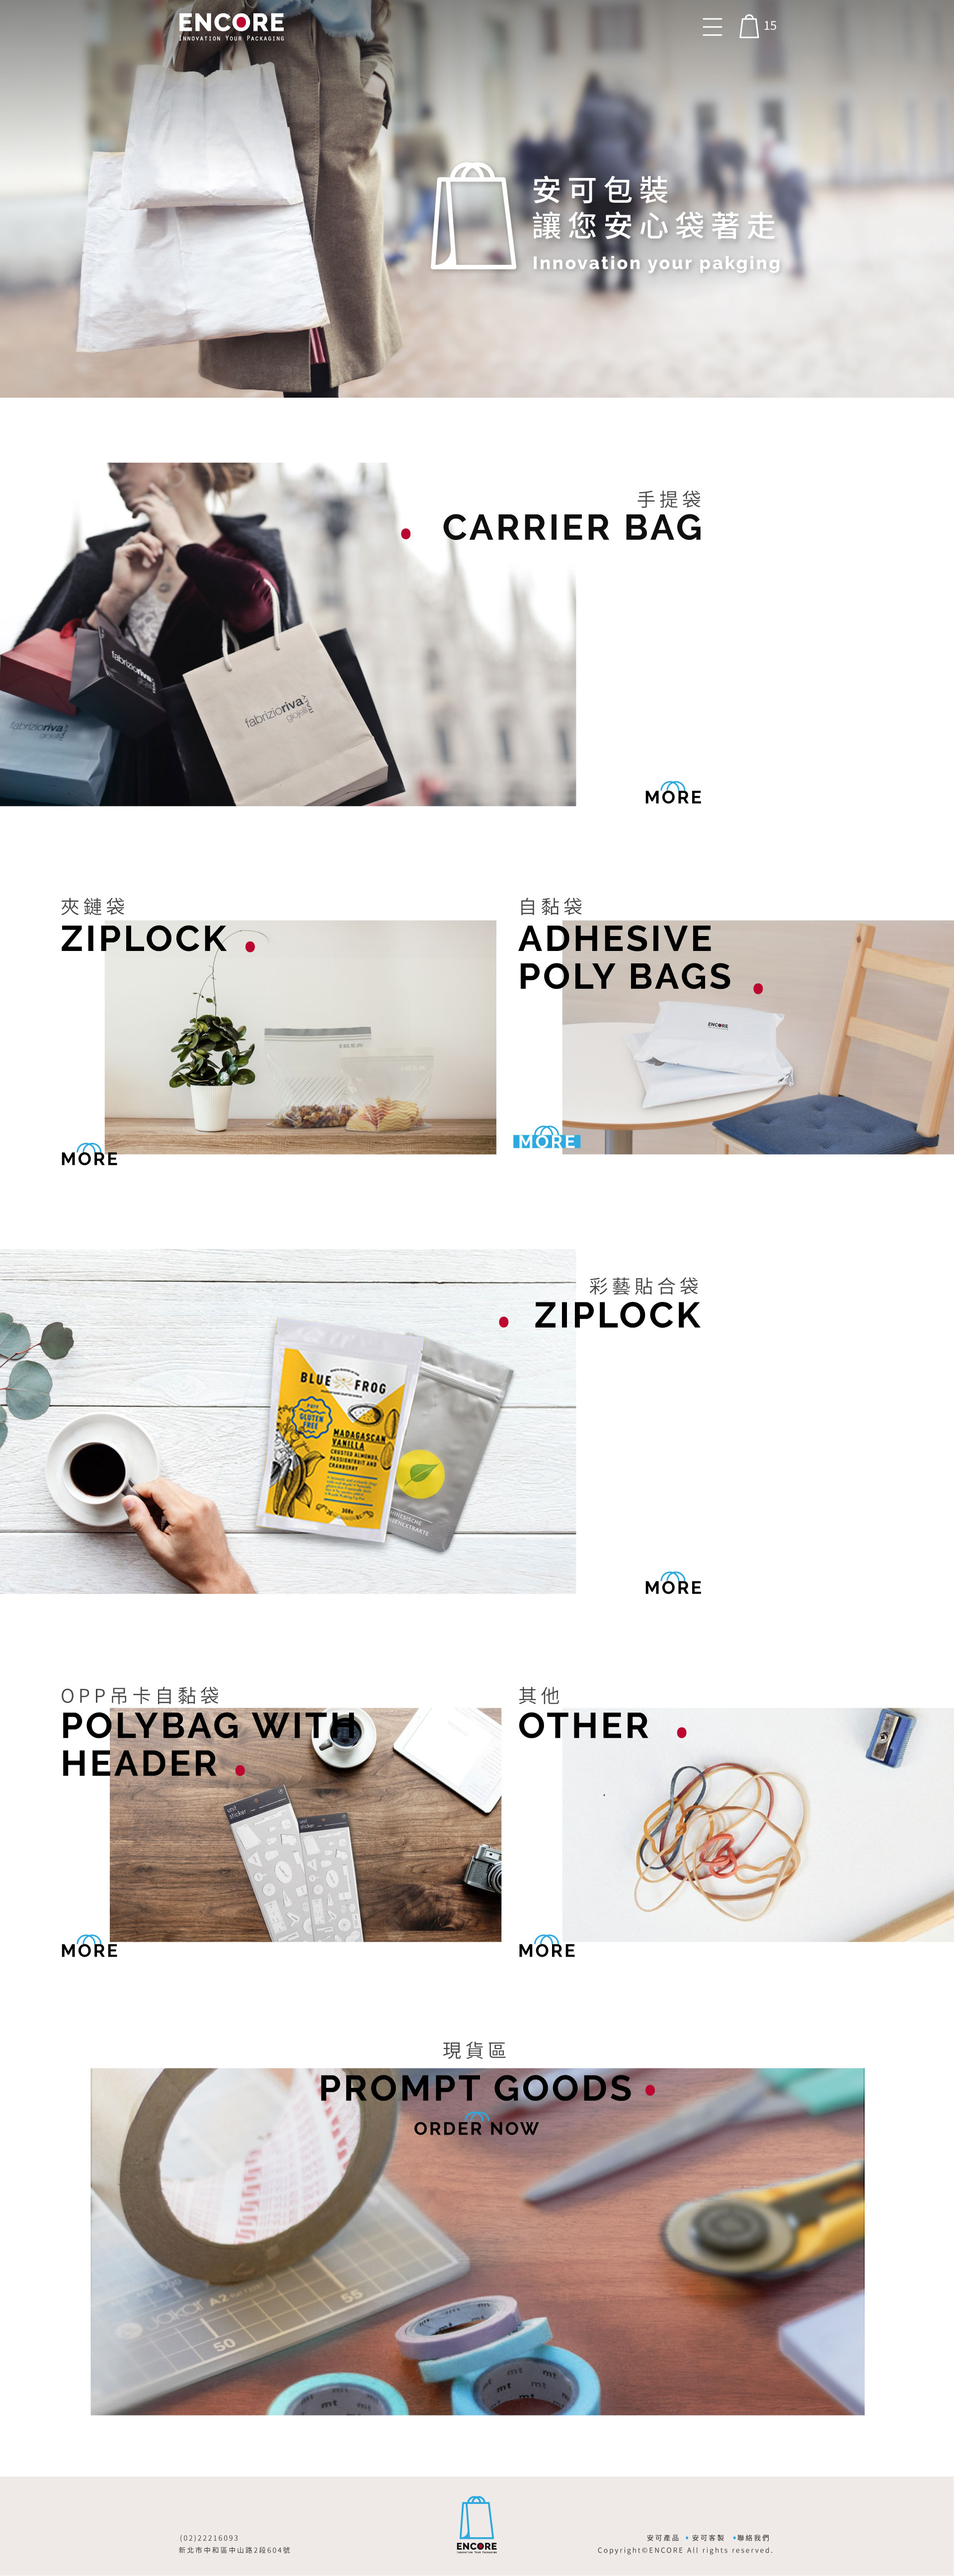
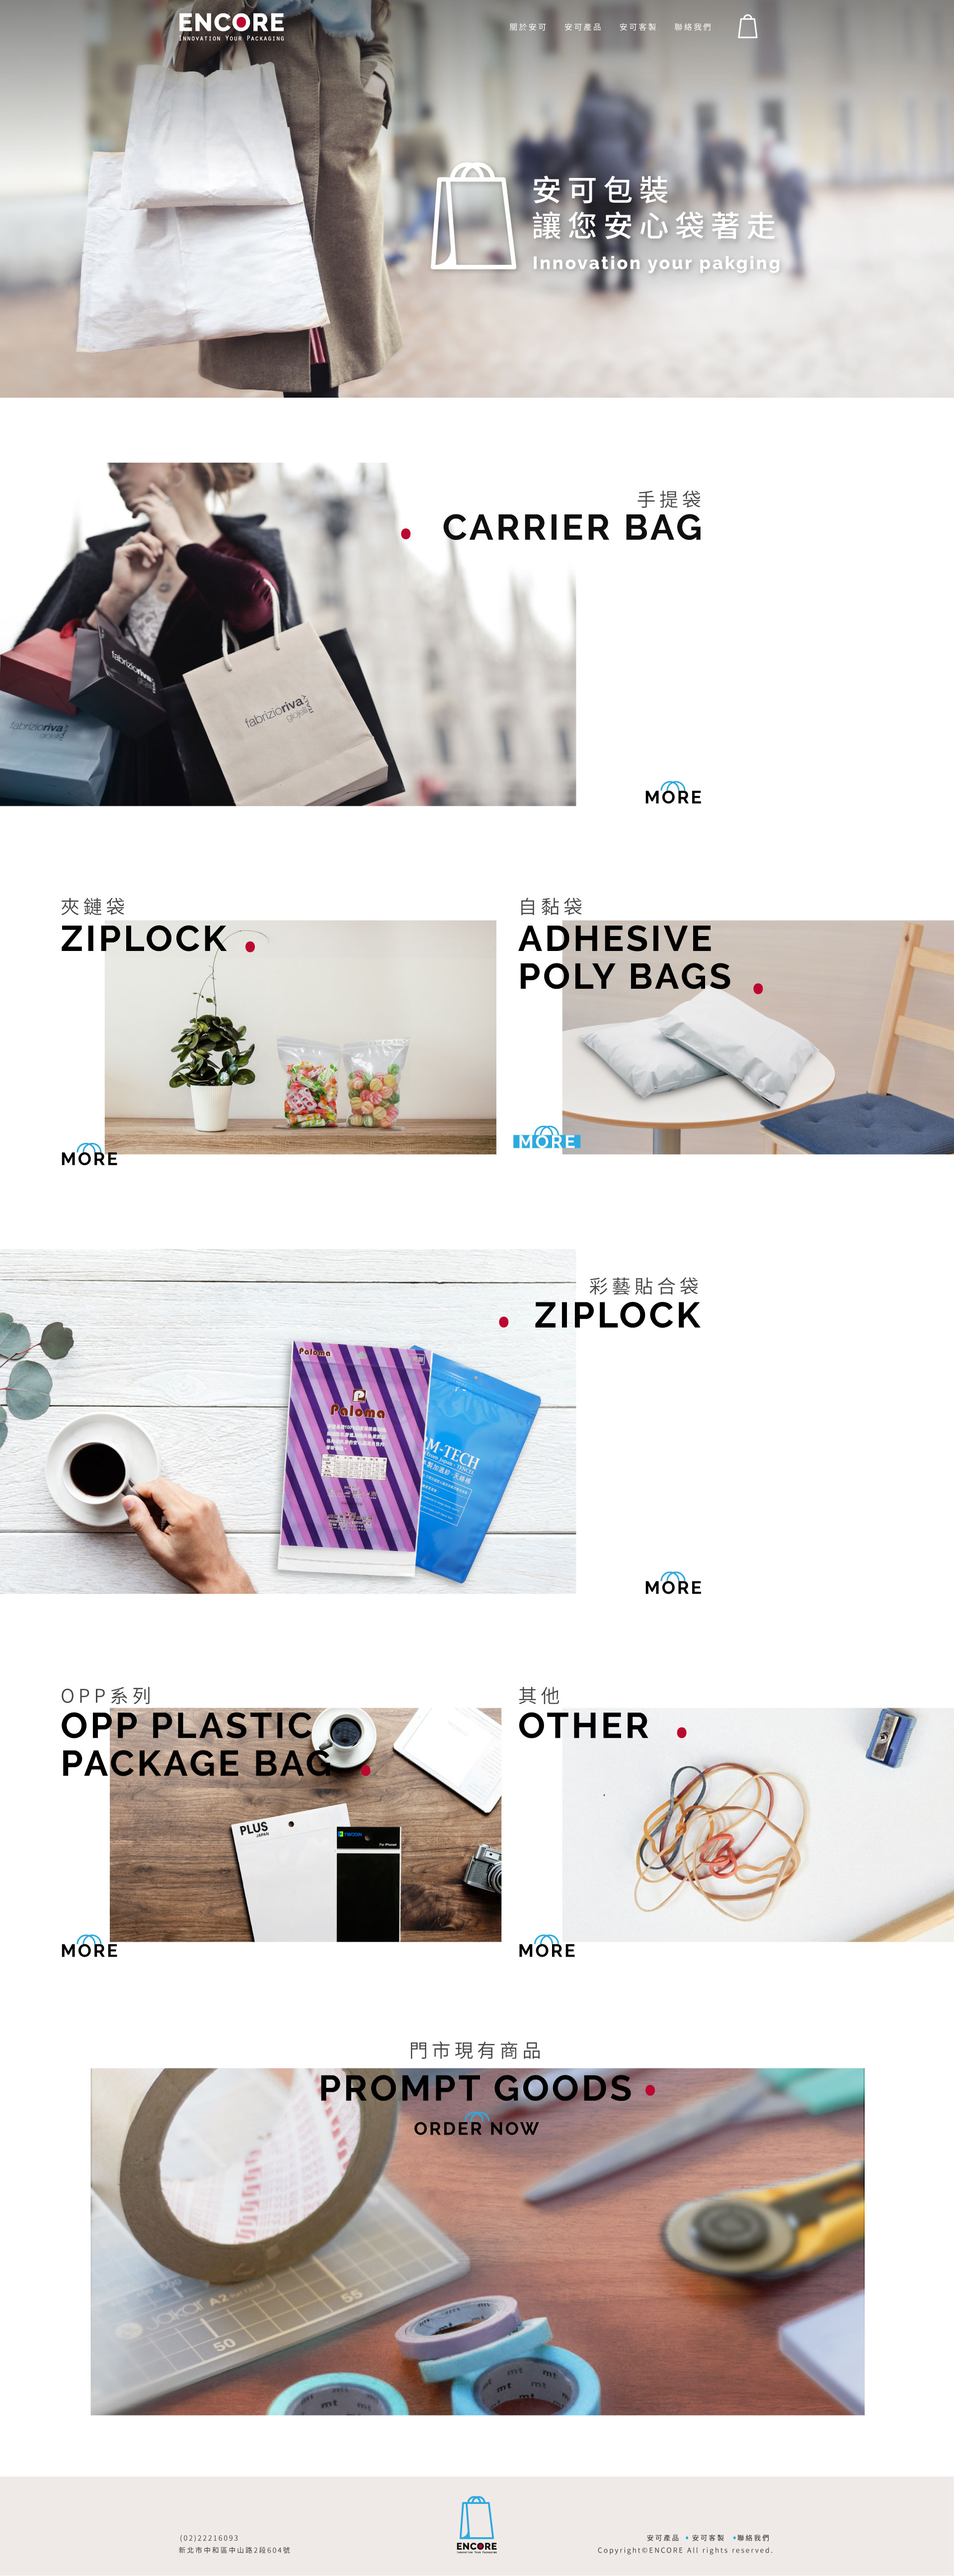
demo update & about page

diff --git a/about.html b/about.html
@@ -1,0 +1,36 @@
+<!DOCTYPE html>
+<html lang="en">
+<head>
+	<meta charset="UTF-8">
+    <meta name="viewport" content="initial-scale=1.0, user-scalable=no" />
+	<title>Encore 安可包裝 | DEMO</title>
+	<style>
+        body {margin: 0; padding: 0; }
+    	#preloader {
+            position: fixed;
+            top: 0;
+            left: 0;
+            right: 0;
+            bottom: 0;
+            background-color: #000;
+            z-index: 9999;
+        }
+        ::-webkit-scrollbar {width: 10px; }
+        ::-webkit-scrollbar-track {background-color: #aaa }
+        ::-webkit-scrollbar-thumb {background-color: #333 }
+        ::-webkit-scrollbar-button {background-color: #333 }
+        ::-webkit-scrollbar-corner {background-color: black; }
+    </style>
+    <script src="js/jquery.js"></script>
+    <script src="js/loading.js"></script>
+    <script src="js/SmoothScroll.js"></script>
+</head>
+<body>
+	<div class="layout-wrapper">
+        <div id="preloader" style="display: none;">
+            <!-- <div id="status" style="display: none;"></div> -->
+        </div>
+    </div>
+    <img width="100%" src="關於安可.jpg">
+</body>
+</html>
